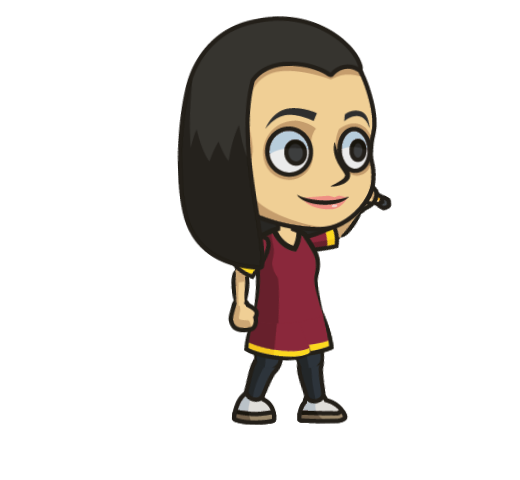
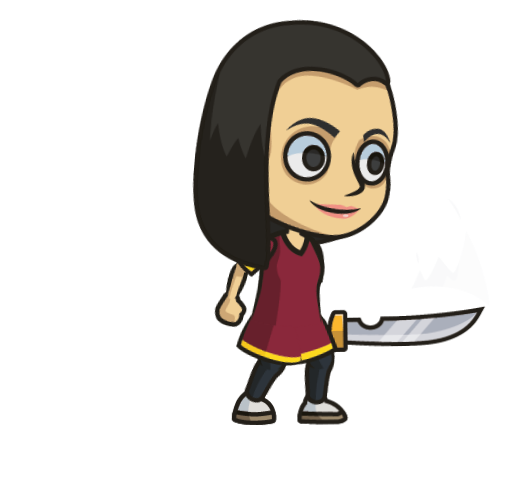
Fixing character constant moving

Changed region(s): [[0.3385, 0.0312, 0.9538, 0.9062]]

diff --git a/lib/animations/game_painter.dart b/lib/animations/game_painter.dart
@@ -21,6 +21,7 @@ class GamePainter extends CustomPainter {
   static double charWidth = 100.0;
 
   OBSTACLE_STATUS obstacleStatus;
+  double machinePos;
   double obstaclePos;
   double obstacleDeathPos;
   double inputPos;
@@ -28,8 +29,9 @@ class GamePainter extends CustomPainter {
   bool canInput;
   double obstacleSize = 20.0;
   
-  GamePainter(BuildContext context, double newObstaclePos, double newObstacleDeathPos,double newInputPos, bool newCanInput, bool newObstacleIsHit, OBSTACLE_STATUS newObstacleStatus, UI.Image newBallImage, UI.Image newEnemyImage, List<UI.Image> newEnemyIdleImages, List<UI.Image> newCharIdleImages, List<UI.Image> newCharInputImages){
+  GamePainter(BuildContext context, double newMachinePos, double newObstaclePos, double newObstacleDeathPos,double newInputPos, bool newCanInput, bool newObstacleIsHit, OBSTACLE_STATUS newObstacleStatus, UI.Image newBallImage, UI.Image newEnemyImage, List<UI.Image> newEnemyIdleImages, List<UI.Image> newCharIdleImages, List<UI.Image> newCharInputImages){
     obstacleStatus = newObstacleStatus;
+    machinePos = newMachinePos;
     obstaclePos = newObstaclePos;
     obstacleDeathPos = newObstacleDeathPos;
     inputPos = newInputPos;
@@ -54,17 +56,17 @@ class GamePainter extends CustomPainter {
 
   @override
   void paint(Canvas canvas, Size size){    
-    print('$obstaclePos, $obstacleDeathPos, $inputPos');
     idleIndex = (charIdleImages.length*(DateTime.now().millisecond/1000)).floor();
     enemyIndex = (enemyIdleImages.length*(DateTime.now().millisecond/1000)).floor();
     
     int inputIndex = (inputPos*charInputImages.length).floor();
+    print(inputIndex);
+
     canvas.drawImage(enemyImage, Offset(size.width*0.8, size.height-50), _paint2);
     // canvas.drawImage(canInput ? charIdleImages[idleIndex] : charInputImages[inputIndex], Offset(size.width*0.2-100.0, size.height-100), _paint2);
     // canvas.drawRect(Rect.fromLTRB(size.width*0.8, size.height,size.width*0.8+charWidth, size.height-charHeight), _paint2);
     canvas.drawImageRect(enemyIdleImages[enemyIndex], Rect.fromLTRB(0.0,0.0,enemyIdleImages[0].width.toDouble(), enemyIdleImages[0].height.toDouble()), Rect.fromLTRB(size.width*0.8, size.height-charHeight,size.width*0.8+charWidth, size.height), _paint2);
 
-    print('${enemyIdleImages[0].width.toDouble()}, ${enemyIdleImages[0].height.toDouble()}');
     canvas.drawImageRect(canInput ? charIdleImages[idleIndex] : charInputImages[inputIndex], Rect.fromLTRB(0.0,0.0,canInput ? charIdleImages[0].width.toDouble() : charInputImages[0].width.toDouble(), canInput ? charIdleImages[0].height.toDouble() : charInputImages[0].height.toDouble()), Rect.fromLTRB(size.width*0.2-charWidth, size.height-charHeight,size.width*0.2, size.height), _paint2);
 
 
@@ -90,6 +92,6 @@ class GamePainter extends CustomPainter {
 
   @override
     bool shouldRepaint(GamePainter oldDelegate) {
-      return oldDelegate.obstacleDeathPos != obstacleDeathPos || oldDelegate.obstacleIsHit != obstacleIsHit || oldDelegate.obstaclePos != obstaclePos || oldDelegate.obstacleStatus != obstacleStatus || oldDelegate.ballImage != ballImage || oldDelegate.canInput != canInput || oldDelegate.inputPos != inputPos || oldDelegate.idleIndex != idleIndex || oldDelegate.enemyIndex != enemyIndex;
+      return oldDelegate.machinePos != machinePos || oldDelegate.obstacleDeathPos != obstacleDeathPos || oldDelegate.obstacleIsHit != obstacleIsHit || oldDelegate.obstaclePos != obstaclePos || oldDelegate.obstacleStatus != obstacleStatus || oldDelegate.ballImage != ballImage || oldDelegate.canInput != canInput || oldDelegate.inputPos != inputPos || oldDelegate.idleIndex != idleIndex || oldDelegate.enemyIndex != enemyIndex;
     }
 }

diff --git a/lib/pages/game_page.dart b/lib/pages/game_page.dart
@@ -184,12 +184,17 @@ class _GamePageState extends State<GamePage> with TickerProviderStateMixin{
     // }
 
 
-    for(int i=3; i > 0; i--){
+    // for(int i=3; i > 0; i--){
+    //   String num = i<10 ? '0$i':'$i';
+    //   UI.Image temp =  await loadImage("assets/player_animations/player_01/player_idle/idle_$num.png");
+    //   charIdleImages.add(temp);
+    // }
+    for(int i=23; i >= 0; i--){
       String num = i<10 ? '0$i':'$i';
-      UI.Image temp =  await loadImage("assets/player_animations/player_01/player_idle/idle_$num.png");
+      UI.Image temp =  await loadImage("assets/player_animations/player_01/player_idle/Idle_0$num.png");
       charIdleImages.add(temp);
     }
-    for(int i=15; i  > 0; i--){
+    for(int i=9; i  > 0; i--){
       String num = i<10 ? '0$i':'$i';
       UI.Image temp =  await loadImage("assets/player_animations/player_01/player_swing/swing_$num.png");
       charInputImages.add(temp);
@@ -284,6 +289,7 @@ class _GamePageState extends State<GamePage> with TickerProviderStateMixin{
                   child: CustomPaint(size: Size(1000.0,1000.0), painter: 
                     GamePainter(
                       context, 
+                      machineTimeAsPercentage(),
                       obstacleTimeAsPercentage(),
                       obstacleDeathTimeAsPercentage(),
                       inputTimeAsPercentage(),
@@ -340,6 +346,9 @@ class _GamePageState extends State<GamePage> with TickerProviderStateMixin{
         ],
       ),
     );
+  }
+  double machineTimeAsPercentage(){
+    return machineAnimation.value == 0 ? 0.0 : machineAnimation.value / machineAnimationController.duration.inMilliseconds;
   }
   double obstacleTimeAsPercentage(){
     return obstacleAnimation.value == 0 ? 0.0 : obstacleAnimation.value / OBSTACLE_DURATION;
